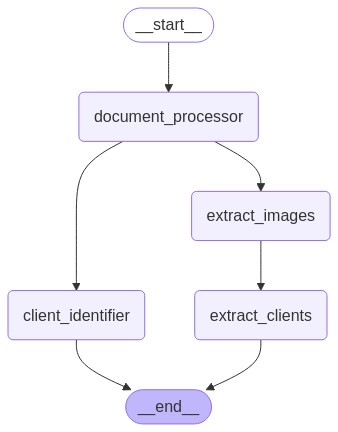
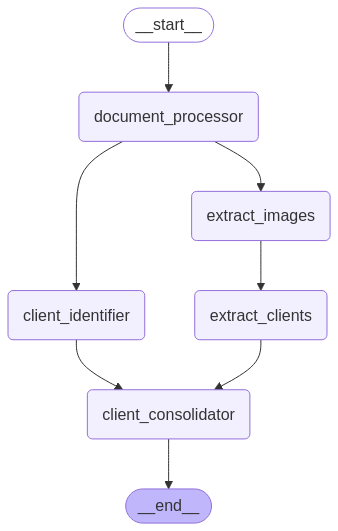
Added client consolidator node

diff --git a/src/graph.py b/src/graph.py
@@ -237,7 +237,7 @@ async def extract_client_names_node(state: State) -> State:
         cleaned_names = getCleanNames(extracted_names)
         save_state_to_file(cleaned_names, "clients_Identified_image.txt")
         # print (f"\n\n\n\n ***********************Extracted Client Names ***********************: {cleaned_names} \n\n\n\n")
-        return {"client_names": extracted_names}
+        return {"client_names": cleaned_names}
     except Exception as e:
         logging.error(f"Error in client names extraction: {str(e)}", exc_info=True)
         return state
@@ -247,9 +247,15 @@ def client_consolidator(state: State) -> State:
     """
     Combine two lists of client names, remove duplicates, sort them, and return as a comma-separated string.
     """
+
+    print (f"\n\n\n\n ***********************Client Names from Text ***********************: {state.clients} \n\n\n\n")
+    print (f"\n\n\n\n ***********************Client Names from Images ***********************: {state.client_names} \n\n\n\n")
     combined_clients_set = set(state.client_names + state.clients)
+    print (f"\n\n\n\n ***********************Client Names from Set ***********************: {combined_clients_set} \n\n\n\n")
     sorted_list = sorted(combined_clients_set)
-    return {"final_clients": ", ".join(sorted_list)}
+    final_clients=", ".join(sorted_list)        
+    save_state_to_file(final_clients, "final_clients.txt")
+    return {"final_clients": final_clients}
 
 def create_workflow_graph(document_path: str,file_name:str):
     """Create the workflow graph using LangGraph."""
@@ -260,13 +266,15 @@ def create_workflow_graph(document_path: str,file_name:str):
     workflow.add_node("client_identifier", client_identifier)
     workflow.add_node("extract_images", extract_images_node)
     workflow.add_node("extract_clients", extract_client_names_node)
+    workflow.add_node("client_consolidator", client_consolidator)
     
     workflow.add_edge(START, "document_processor")
     workflow.add_edge("document_processor", "client_identifier")
     workflow.add_edge("document_processor", "extract_images")
     workflow.add_edge("extract_images", "extract_clients")
-    workflow.add_edge("client_identifier", END)
-    workflow.add_edge("extract_clients", END)
+    workflow.add_edge("client_identifier", "client_consolidator")
+    workflow.add_edge("extract_clients", "client_consolidator")
+    workflow.add_edge("client_consolidator", END)
 
     # # Add nodes
     # workflow.add_node("document_processor", lambda state: asyncio.run(document_processor(state, document_path,file_name)))

diff --git a/src/utils.py b/src/utils.py
@@ -101,7 +101,7 @@ def save_state_to_file(state, filename="state_log.txt"):
         file_path = os.path.join(log_dir, filename)
         
         # Write the state to the file
-        with open(file_path, "a") as file:  # Open in append mode
+        with open(file_path, "w") as file:  # Open in append mode
             file.write(f"\n\n{'*' * 30} State Log {'*' * 30}\n")
             file.write(f"{state}\n")  # Convert state to string
             file.write(f"{'*' * 70}\n")
